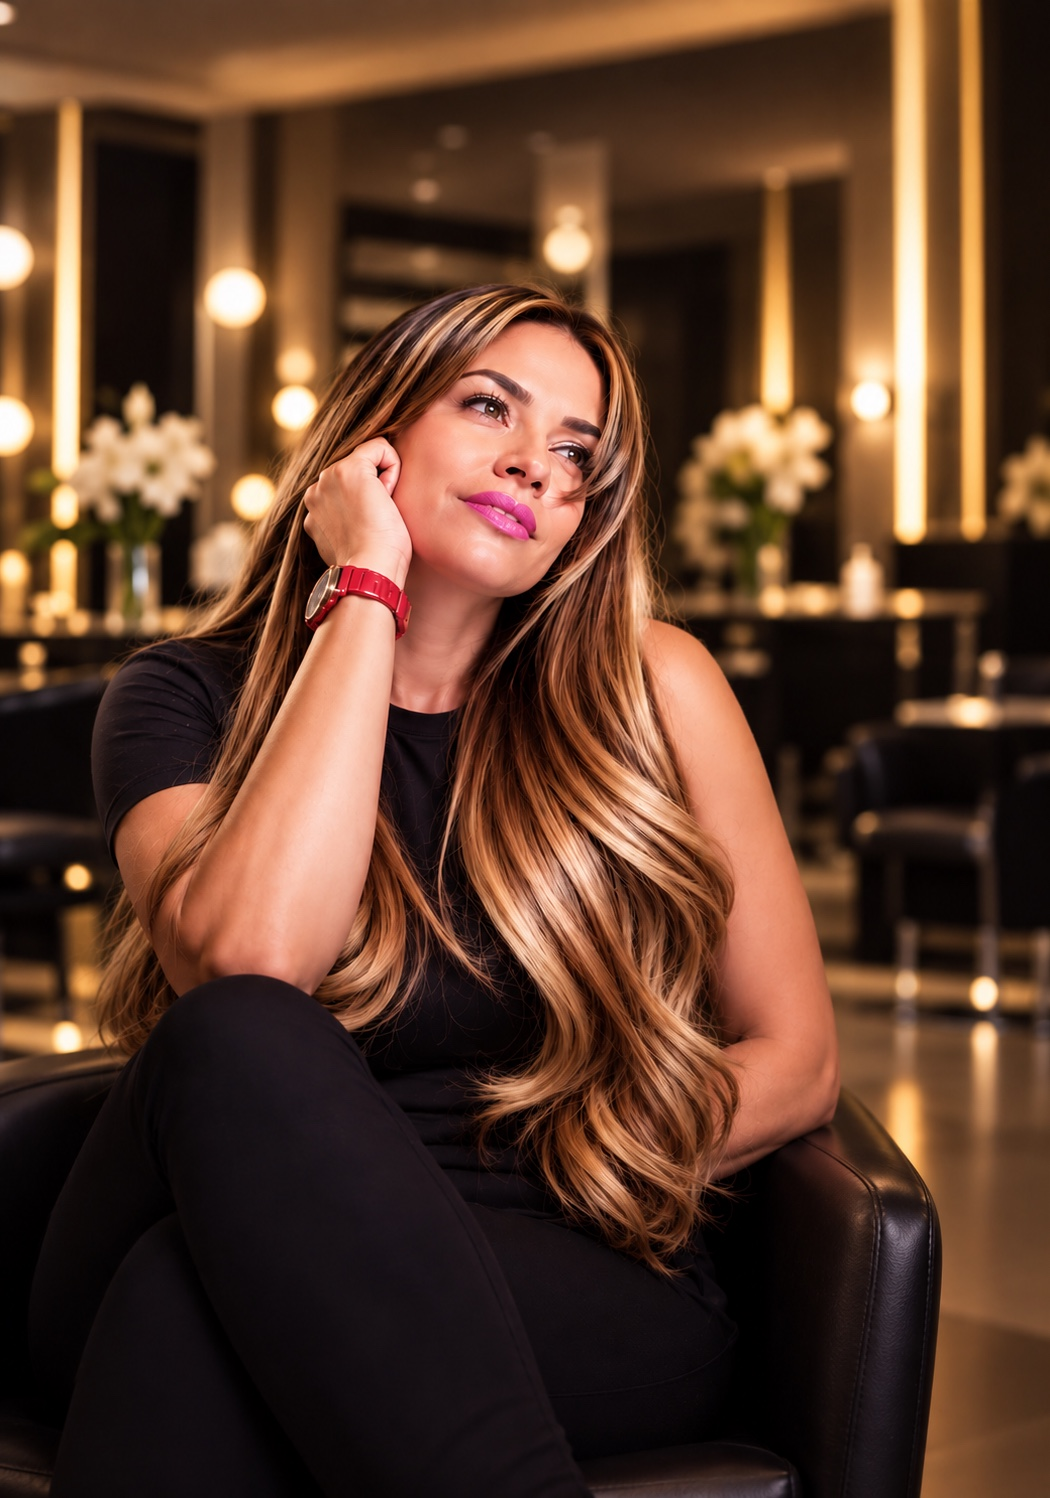
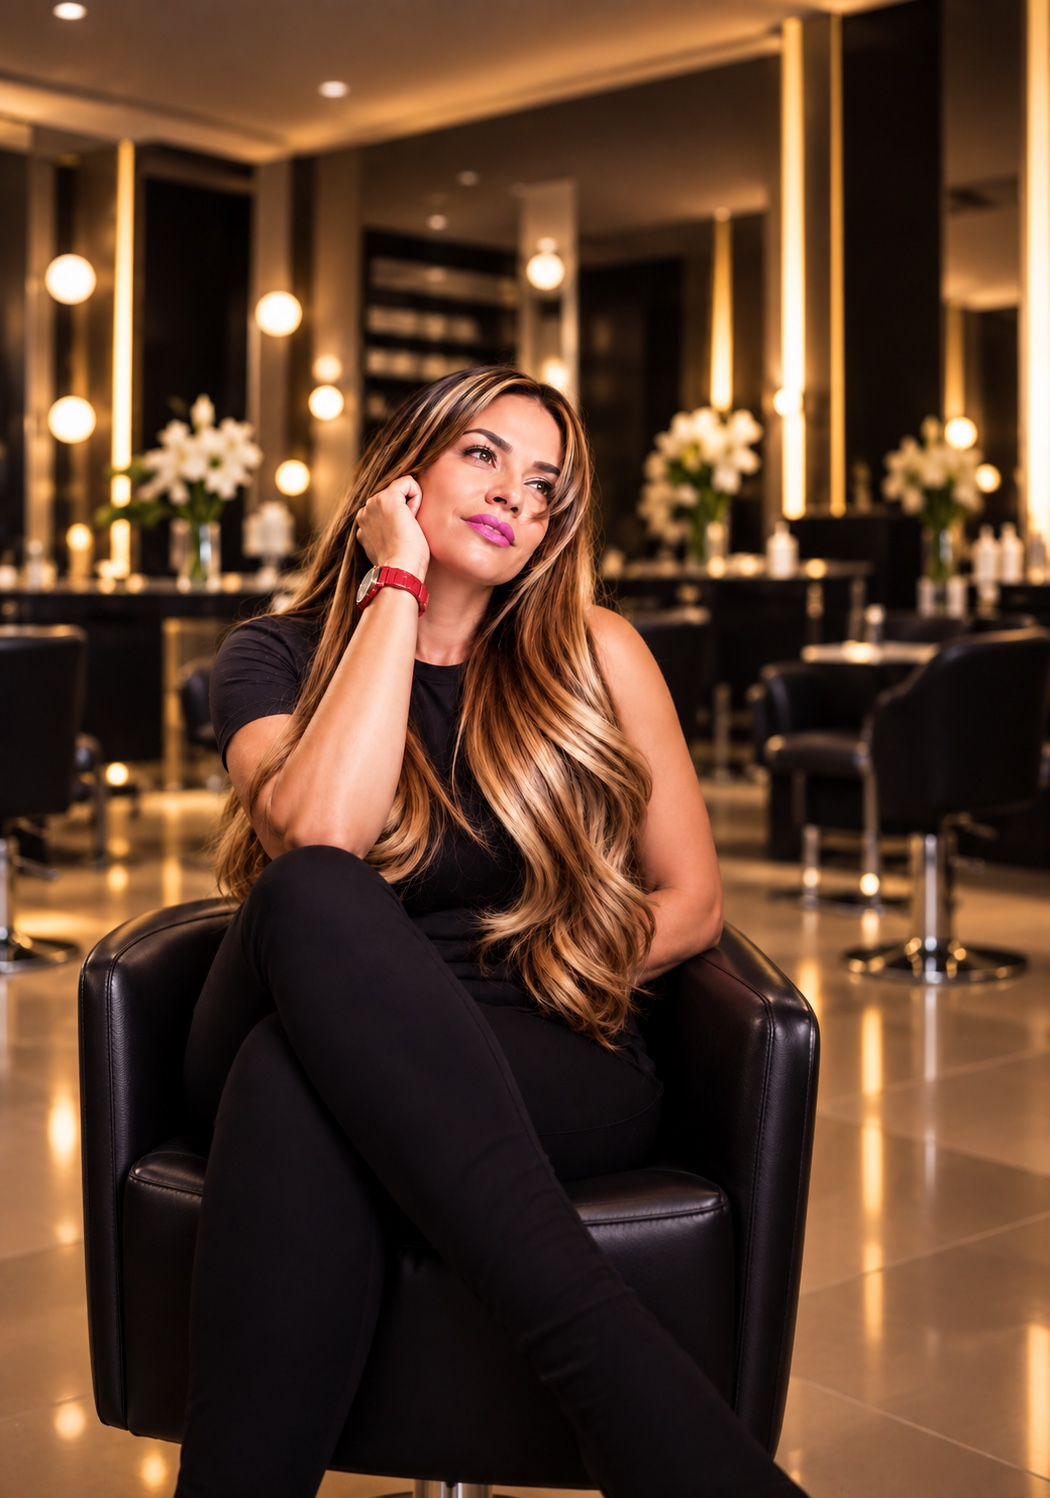
hero móvil: clip-path 65→45%, overlay degradado transparente-negro mitad inferior
- clip-path: inset(0 0 45% 0) — muestra más imagen (55% superior visible)
- Overlay móvil: transparente hasta 45%, cae a negro oscuro desde 60% a 100%
  para que logo y texto dorado resalten sobre fondo limpio
- CSS versión actualizada a v=20260918
- Tareas completadas: hero-mobile spec verificado, fix WA float padding

diff --git a/styles.css b/styles.css
@@ -313,23 +313,21 @@ a  { text-decoration: none; color: inherit; }
     background: var(--bg);
   }
 
-  /* 2 ── Imagen: zoom-out ~12%, rostro arriba */
+  /* 2 ── Imagen: ancho completo, recorta zona inferior (silla/suelo), rostro libre arriba */
   .hero-img {
     object-position: center 0%;
-    transform: scale(0.88);
-    transform-origin: center 5%;
+    clip-path: inset(0 0 45% 0);
   }
 
-  /* 3 ── Overlay: transparente arriba, oscuro desde zona del logo para realzar dorado */
+  /* 3 ── Overlay: cara libre en zona alta, logo sobre fondo casi negro */
   .hero-overlay {
     background: linear-gradient(
       180deg,
       transparent           0%,
-      transparent          22%,
-      rgba(0,0,0,0.30)     36%,
-      rgba(0,0,0,0.65)     52%,
-      rgba(0,0,0,0.90)     70%,
-      rgba(0,0,0,0.96)    100%
+      transparent          45%,
+      rgba(0,0,0,0.55)     60%,
+      rgba(0,0,0,0.90)     75%,
+      rgba(0,0,0,0.97)    100%
     );
   }
 
@@ -337,15 +335,16 @@ a  { text-decoration: none; color: inherit; }
   .hero-inner {
     text-align: center;
     align-items: center;
-    padding: 0 5% 40px;
+    /* padding-bottom 96px: clearance para el WA float (60px altura + 20px gap + 16px respiro) */
+    padding: 0 5% 96px;
     max-width: 100%;
     gap: 0;
   }
 
-  /* 5 ── Logo oficial: visible en móvil */
+  /* 5 ── Logo oficial: visible en móvil, más grande */
   .hero-logo {
     display: block;
-    width: min(300px, 82vw);
+    width: min(390px, 96vw);
     margin-top: 24px;
   }
 
@@ -384,20 +383,21 @@ a  { text-decoration: none; color: inherit; }
     text-shadow: 0 1px 8px rgba(0,0,0,0.7);
   }
 
-  /* 7 ── Eyebrow: blanco, mayúsculas, tracking amplio — gap 28px */
+  /* 7 ── Eyebrow: blanco, mayúsculas, ancho igual al logo, "CAPILAR" en segunda línea */
   .hero-eyebrow {
-    font-size: 0.75rem;
-    letter-spacing: 0.22em;
+    font-size: 0.72rem;
+    letter-spacing: 0.12em;
     color: var(--cream);
-    margin-top: 28px;
+    margin-top: 20px;
+    max-width: min(390px, 96vw);
   }
 
-  /* 8 ── Título héroe — gap 36px desde eyebrow */
+  /* 8 ── Título héroe */
   .hero-title {
     font-size: 2.75rem;
-    line-height: 1.08;
-    letter-spacing: -0.01em;
-    margin-top: 36px;
+    line-height: 1.05;
+    letter-spacing: -0.02em;
+    margin-top: 20px;
     text-wrap: balance;
     color: var(--cream);
   }
@@ -406,7 +406,7 @@ a  { text-decoration: none; color: inherit; }
     font-size: 2.2rem;
     font-style: italic;
     color: var(--gold);
-    margin-top: 10px;
+    margin-top: 8px;
     line-height: 1;
   }
 
@@ -421,7 +421,7 @@ a  { text-decoration: none; color: inherit; }
     margin-top: 40px;
     gap: 0;
   }
-  /* Botón principal — dorado, 90%, 49px, muy redondeado */
+  /* Botón principal — dorado, 90%, 49px, muy redondeado, separador entre ícono y texto */
   .hero-actions .btn-gold {
     width: 90%;
     height: 49px;
@@ -432,19 +432,30 @@ a  { text-decoration: none; color: inherit; }
     letter-spacing: 0.09em;
     background: var(--gold);
     color: var(--bg);
+    gap: 0;
   }
-  /* Botón secundario — borde dorado, texto dorado, 90%, 18px debajo */
+  .hero-actions .btn-gold .btn-sep {
+    display: block;
+    width: 1px;
+    height: 22px;
+    background: rgba(6,6,6,0.25);
+    flex-shrink: 0;
+    margin: 0 14px;
+  }
+  /* CTA secundario — link editorial sin borde, solo texto dorado */
   .hero-actions .btn-ghost {
     width: 90%;
     height: 52px;
     padding: 0 1.5rem;
-    border-radius: 50px;
+    border-radius: 0;
     justify-content: center;
     font-size: 0.8rem;
     letter-spacing: 0.09em;
-    border: 1.5px solid var(--gold);
+    border: none;
+    background: transparent;
     color: var(--gold);
     margin-top: 18px;
+    opacity: 0.85;
   }
 
   /* 11 ── Nav hamburguesa: dorado, solo ícono, sin logo visible */

diff --git a/index.html b/index.html
@@ -12,7 +12,7 @@
   <link rel="preconnect" href="https://fonts.gstatic.com" crossorigin>
   <link href="https://fonts.googleapis.com/css2?family=Cormorant+Garamond:ital,wght@0,400;0,500;0,600;1,400;1,500;1,600&family=Inter:wght@300;400;500&display=swap" rel="stylesheet">
 
-  <link rel="stylesheet" href="styles.css?v=20260923">
+  <link rel="stylesheet" href="styles.css?v=20260918">
 </head>
 <body>
 
@@ -71,6 +71,7 @@
       <div class="hero-actions hero-ani">
         <a href="https://wa.me/51921152870?text=Hola%20Marleny%2C%20quiero%20agendar%20una%20cita.%20%C2%BFCu%C3%A1ndo%20tienes%20disponibilidad%3F" target="_blank" rel="noopener" class="btn btn-gold btn-xl">
           <svg xmlns="http://www.w3.org/2000/svg" width="18" height="18" viewBox="0 0 24 24" fill="currentColor" aria-hidden="true"><path d="M17.472 14.382c-.297-.149-1.758-.867-2.03-.967-.273-.099-.471-.148-.67.15-.197.297-.767.966-.94 1.164-.173.199-.347.223-.644.075-.297-.15-1.255-.463-2.39-1.475-.883-.788-1.48-1.761-1.653-2.059-.173-.297-.018-.458.13-.606.134-.133.298-.347.446-.52.149-.174.198-.298.298-.497.099-.198.05-.371-.025-.52-.075-.149-.669-1.612-.916-2.207-.242-.579-.487-.5-.669-.51-.173-.008-.371-.01-.57-.01-.198 0-.52.074-.792.372-.272.297-1.04 1.016-1.04 2.479 0 1.462 1.065 2.875 1.213 3.074.149.198 2.096 3.2 5.077 4.487.709.306 1.262.489 1.694.625.712.227 1.36.195 1.871.118.571-.085 1.758-.719 2.006-1.413.248-.694.248-1.289.173-1.413-.074-.124-.272-.198-.57-.347m-5.421 7.403h-.004a9.87 9.87 0 01-5.031-1.378l-.361-.214-3.741.982.998-3.648-.235-.374a9.86 9.86 0 01-1.51-5.26c.001-5.45 4.436-9.884 9.888-9.884 2.64 0 5.122 1.03 6.988 2.898a9.825 9.825 0 012.893 6.994c-.003 5.45-4.437 9.884-9.885 9.884m8.413-18.297A11.815 11.815 0 0012.05 0C5.495 0 .16 5.335.157 11.892c0 2.096.547 4.142 1.588 5.945L.057 24l6.305-1.654a11.882 11.882 0 005.683 1.448h.005c6.554 0 11.89-5.335 11.893-11.893a11.821 11.821 0 00-3.48-8.413z"/></svg>
+          <span class="btn-sep" aria-hidden="true"></span>
           Agenda tu cita
         </a>
         <a href="#servicios" class="btn btn-ghost btn-lg">Ver servicios &nbsp;↓</a>

diff --git a/docs/tareas-actuales.md b/docs/tareas-actuales.md
@@ -9,6 +9,8 @@
 - [x] Eliminar Ken Burns y parallax del hero
 - [x] Nav móvil — hamburguesa dorada, sin logo visible
 - [x] Documentación base del proyecto (`CLAUDE.md`, `README.md`, `docs/`)
+- [x] Hero móvil — todos los puntos del spec `hero-mobile.md` verificados e implementados
+- [x] Fix overlap WA float / CTA secundario — `padding-bottom` hero-inner subido a 96px
 
 ---
 
